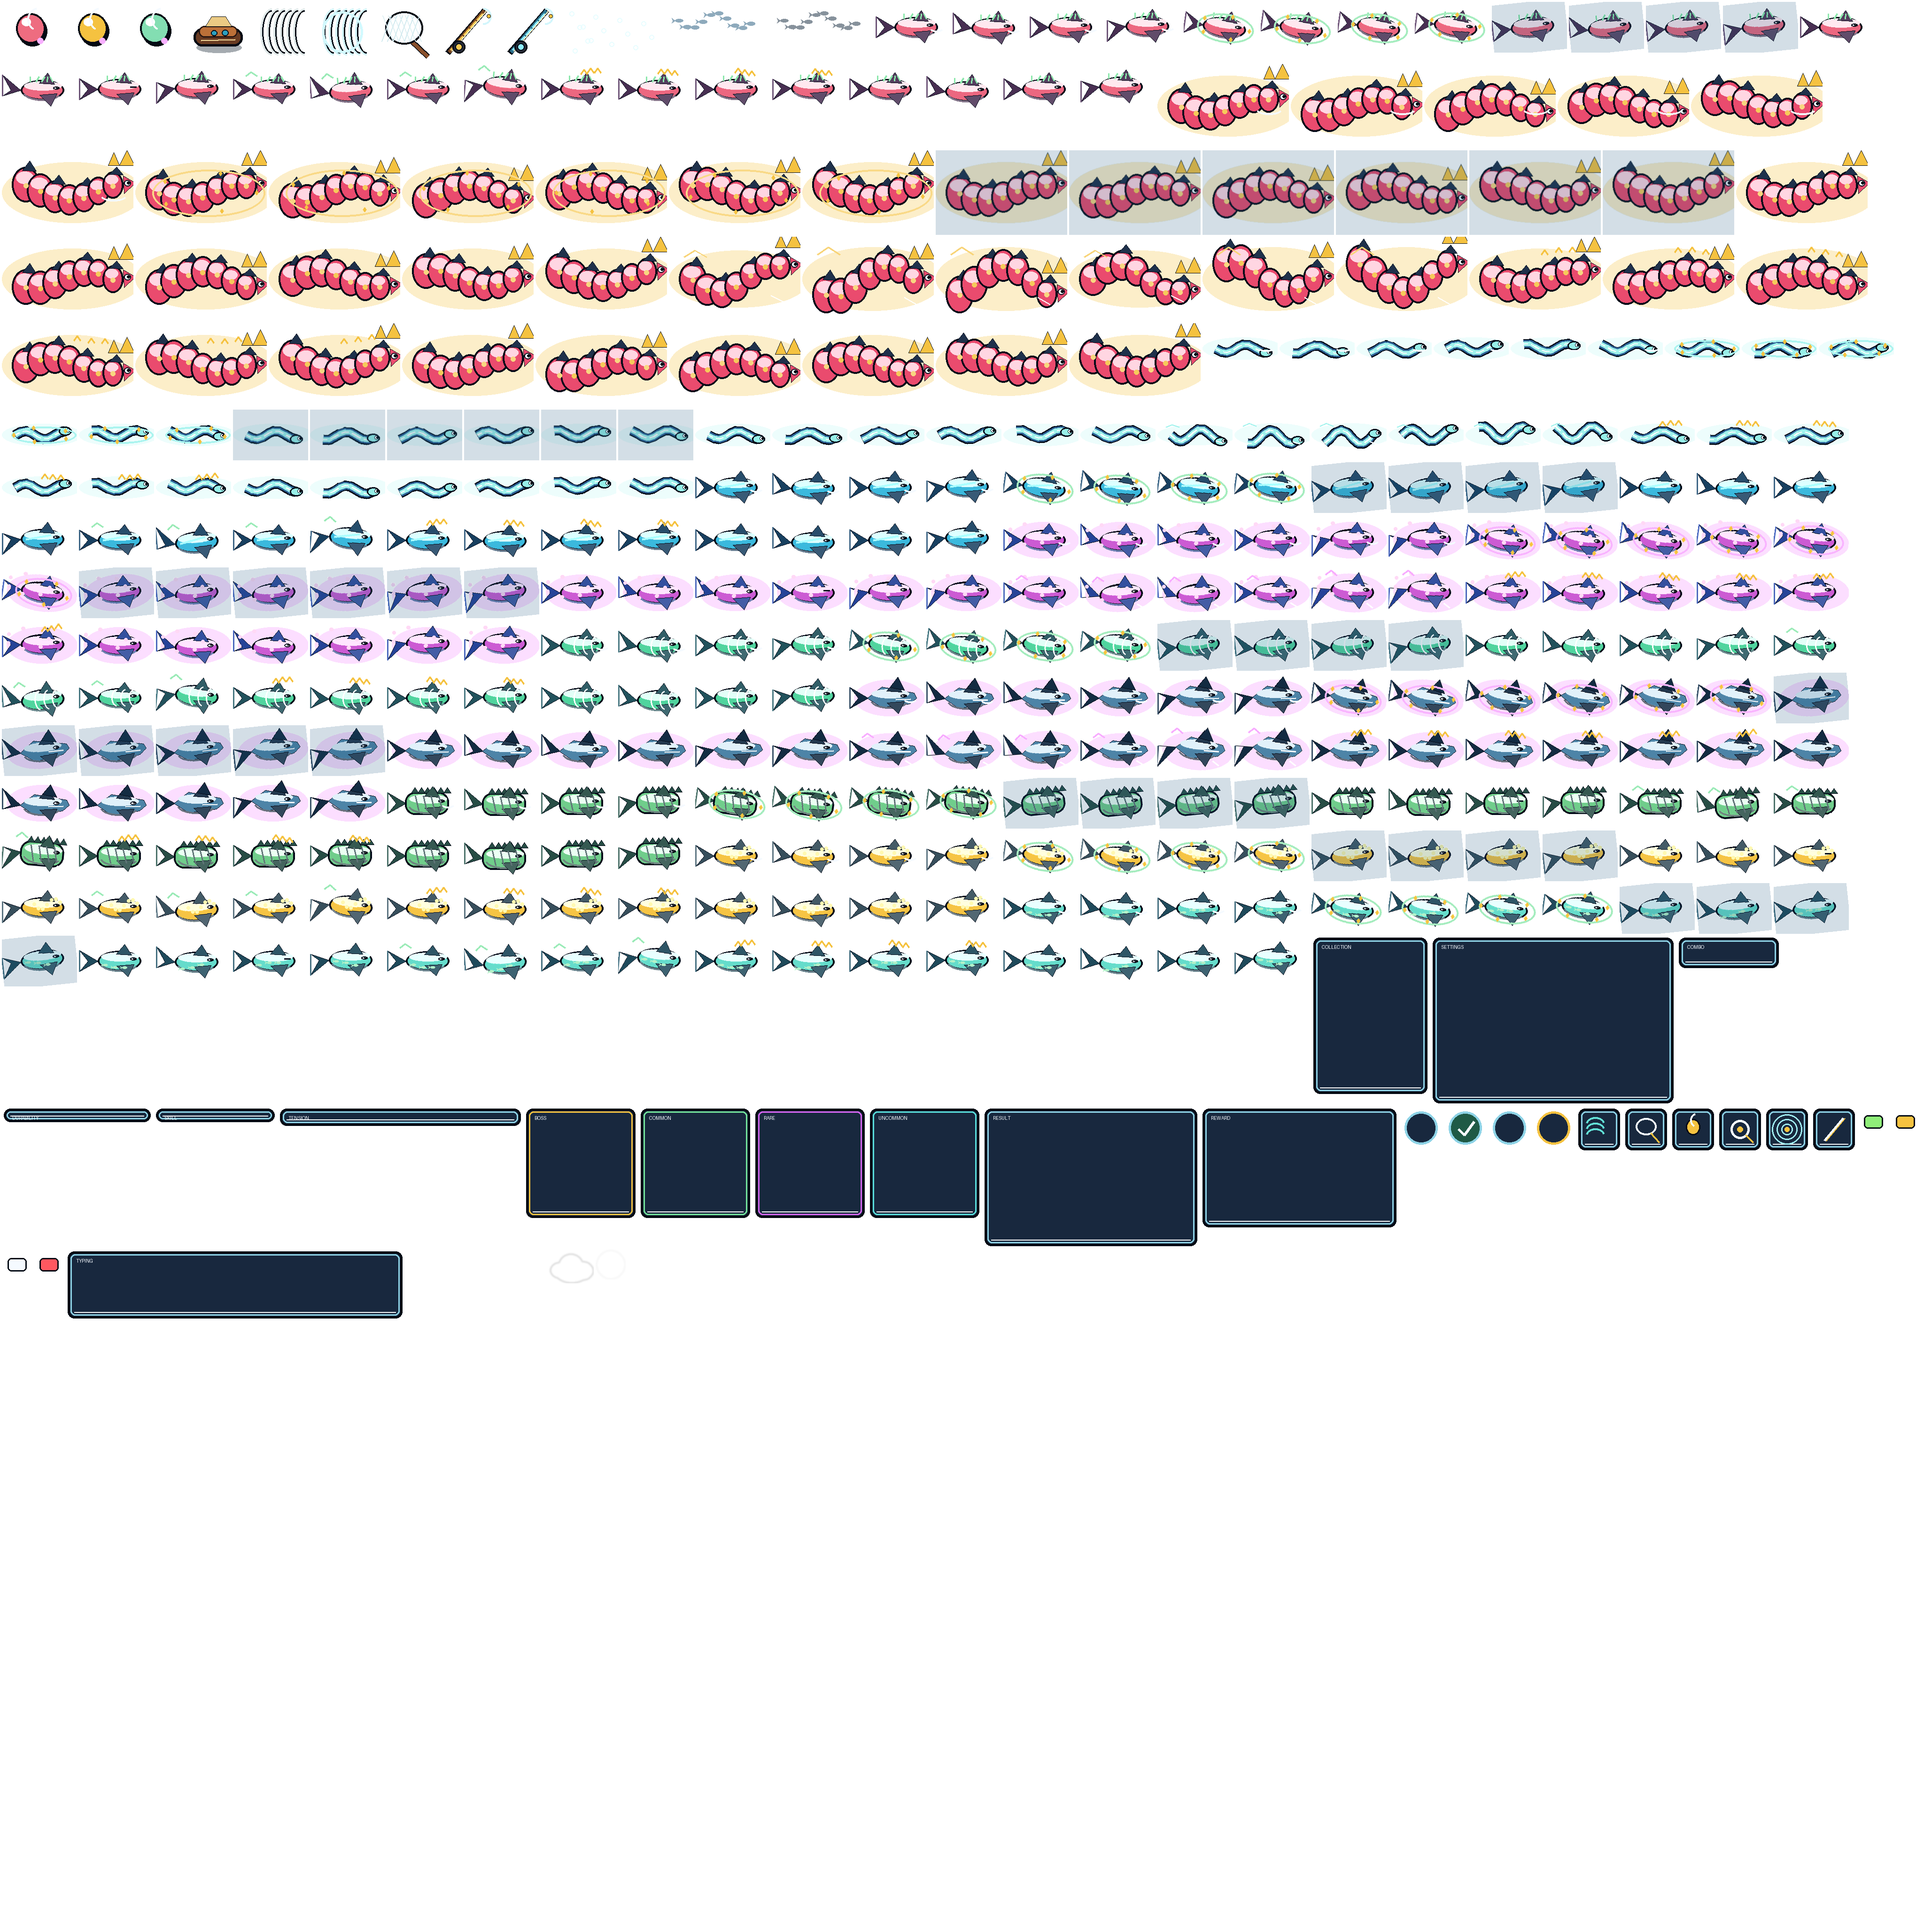
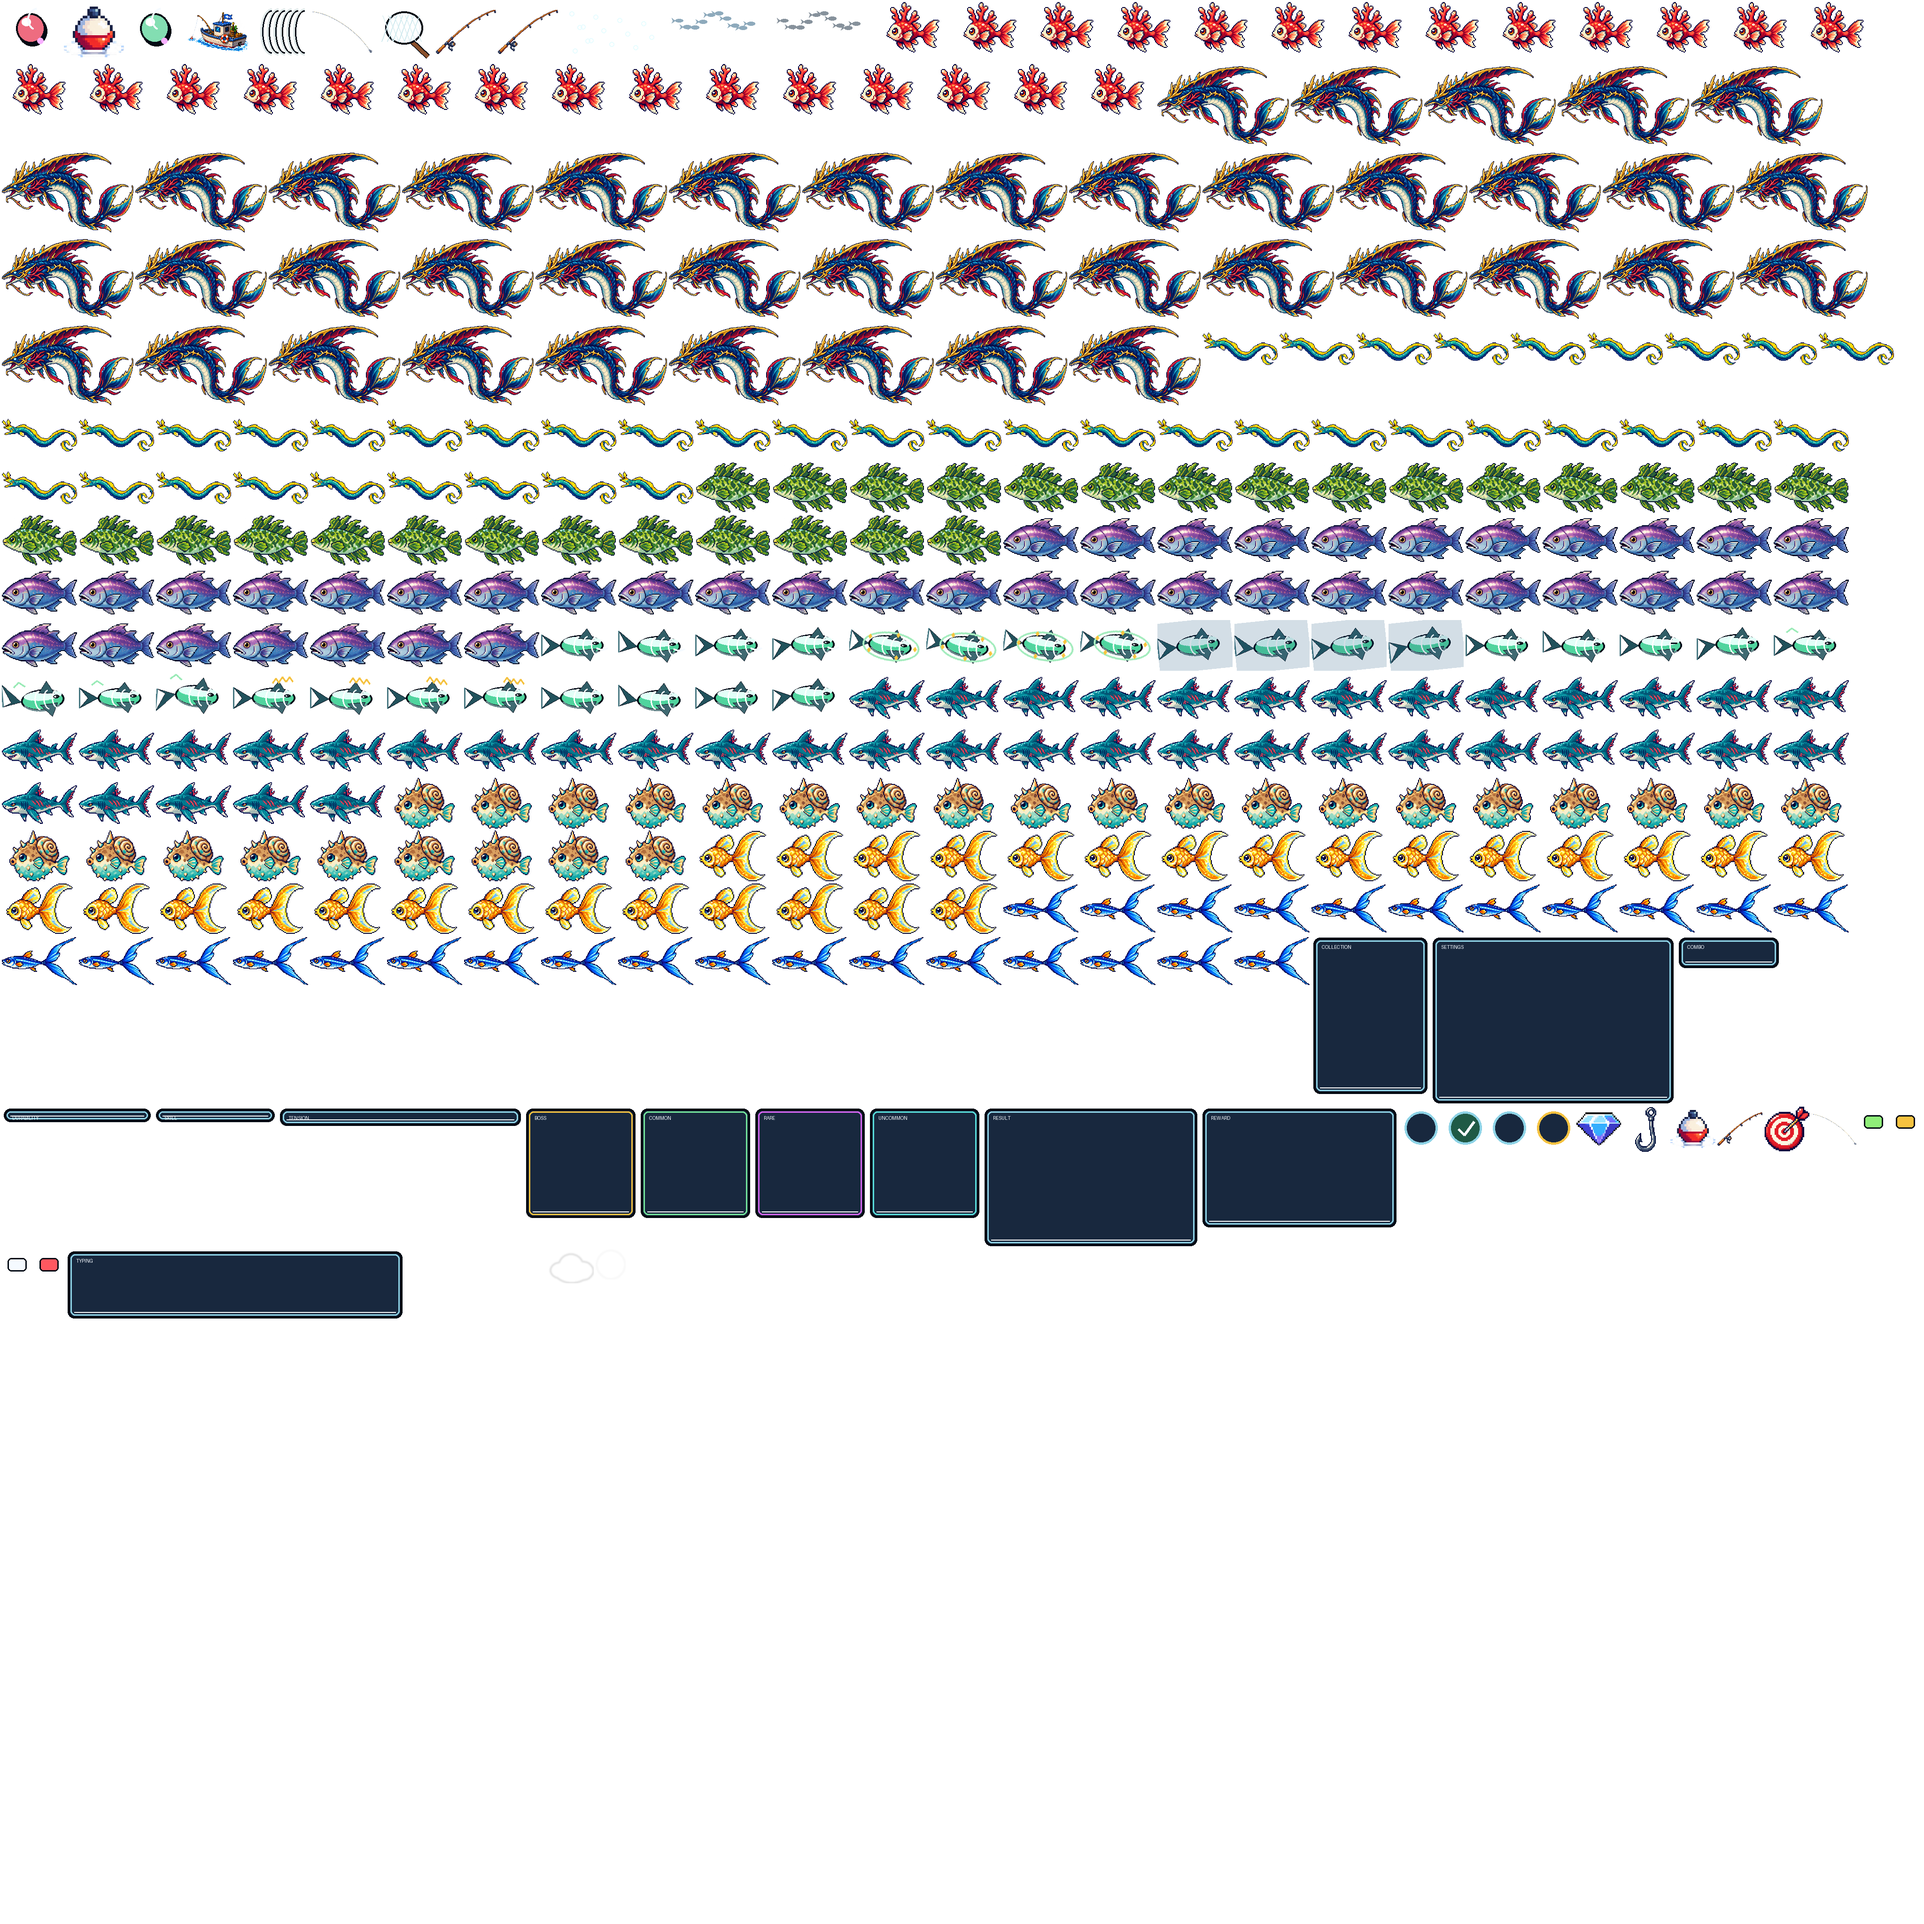
art: unify ocean fish equipment and pixel button plates

Changed region(s): [[0.0, 0.0, 1.0, 0.5312], [0.8125, 0.5625, 0.9688, 0.625]]

diff --git a/ASSET-LICENSES.md b/ASSET-LICENSES.md
@@ -2,6 +2,20 @@
 
 This register covers the Ocean Typing RPG Milestone 0/1 asset set generated for this branch.
 
+## Current runtime substitutions — 2026-10-09
+
+The entries below replace the older procedural provenance for the affected runtime files. Unlisted assets keep their existing register entries. The catalog remains concept art except for the explicitly selected sprites below.
+
+| Runtime output | Source | Creator / rights record | Processing |
+| --- | --- | --- | --- |
+| `mainmenu/button_blue_empty.png`, `button_gold_empty.png` | Existing Typecade menu plate images, edited with OpenAI image generation on 2026-10-09 | Project generated pixel art; no external stock attribution | Removed all lettering/icons, retained border and transparent margins, trimmed and resized to 420px wide with nearest-neighbor filtering |
+| Atlas frames and idle PNGs for Kelp Darter, Sunny Guppy, Shellback Puffer, Tide Skipper, Coral Fry, Glass Eel, Reef Shark, Crown Leviathan | `concepts/fish-catalog-v2/fish_catalog_v2_{08,03,04,05,06,14,21,40}.png`, respectively | Existing project generated catalog art, OpenAI image generation | Trimmed into fixed runtime cells; repeated base pose across state frames |
+| Atlas frames and idle PNG for Moonfin Snapper | `reference-derived-pixel-pack/fish_moonfin_snapper.png` | Existing project generated pixel art | Same fixed-cell normalization |
+| Boat, rods, luminous line, moon bait, six skill icons | `mainmenu/ship-mainmenu.png` and `reference-derived-pixel-pack/*`; exact mapping in `apps/web/scripts/refresh-ocean-art.mjs` | Existing project generated pixel art | Trimmed, nearest-neighbor resized, transparent old atlas pixels cleared before replacement |
+| `atlases/atlas_ocean.png` | Existing atlas plus the runtime substitutions above | Mixed project procedural and generated pixel assets | 319 frame cells refreshed; frame names, dimensions, and pivots preserved |
+
+Menu edit brief: preserve the original Typecade navy/gold pixel plate, rivets, bevels, size, and transparency; remove every word and icon; leave the center empty for live UI labels. The blue and gold source plates were edited separately. No purchased assets were introduced.
+
 | Asset | Source | Creator | License | Attribution | Modification | Used In |
 | --- | --- | --- | --- | --- | --- | --- |
 | docs/reference/typecade-ui-reference.jpg | User-provided reference screenshot | User | Project reference only | Not redistributed as game asset | Not used as source material; used for UI chrome interpretation | docs/reference |

diff --git a/docs/art-bible.md b/docs/art-bible.md
@@ -1,11 +1,23 @@
 # Ocean Typing RPG Art Bible
 
-Status: locked for Milestone 0/1 prototype
+Status: current runtime direction, updated 2026-10-09
 Reference: `docs/reference/typecade-ui-reference.jpg`
 
 ## Visual Identity
 
 Ocean Typing RPG uses bright fantasy-ocean environments behind compact, dark-navy game chrome. The world should feel luminous and playful, while typing information remains crisp, high-contrast, and stable.
+
+### Runtime asset rules, 2026-10-09
+
+- Main-menu plates define button styling throughout Adventure, Practice, Multiplayer, and dialogs: square pixel corners, navy fill, gold trim, and a gold selected state. Button labels and icons are rendered separately from the plate.
+- Use `mainmenu/button_blue_empty.png` and `button_gold_empty.png` for shared chrome. They were generated by removing lettering and icons from the existing menu plates; do not stretch a plate containing baked text.
+- Navigation, statistics, equipment, and skill icons use the existing `reference-derived-pixel-pack`. Do not mix vector icon libraries into the active shell.
+- Use the main-menu ship for the gameplay boat and multiplayer competitors. Player names, ranks, and progress stay live UI text.
+- Nine former procedural fish silhouettes are replaced by selected catalog/reference sprites. Pebble Goby keeps its existing state animation strips. `apps/web/scripts/refresh-ocean-art.mjs` lists the exact source mapping and writes fixed atlas cells using nearest-neighbor resizing.
+- Reused poses fill the nine replacement fish's atlas states; Phaser supplies drift, stretch, rotation, catch/escape movement, and bounded particles. These replacements are not nine new hand-animated sprite sets.
+- Keep the hero coast image unobstructed by fallback background layers. Fallback layers remain available when the hero texture fails to load.
+- HUD controls, callouts, typing, and results occupy separate flow rows. A dialog uses the browser's modal layer and restores focus on close. Mobile layout must fit at 320×640 and 390×844.
+- Rarity callouts use a monospace font sized to the viewport. Text effects stay clear of the fish and typing panel; reduced effects disable camera shake and hit stop.
 
 ## Silhouette Language
 
